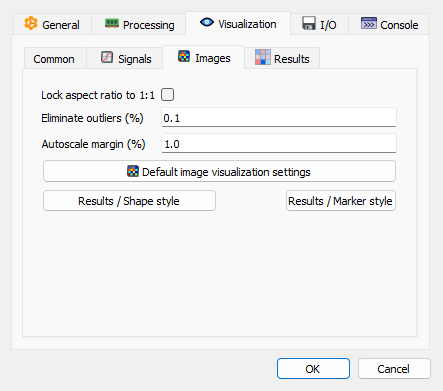
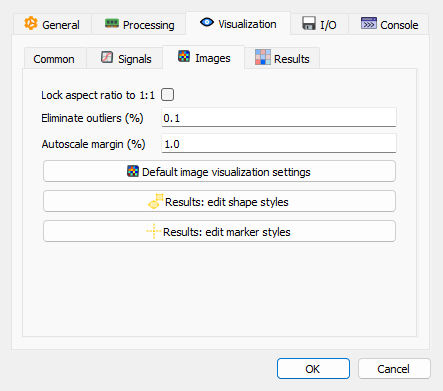
Update settings documentation and French translations for visualization options

Changed region(s): [[0.088, 0.491, 0.8804, 0.6138]]

diff --git a/doc/features/common/settings.rst b/doc/features/common/settings.rst
@@ -190,7 +190,7 @@ The Signals sub-tab contains settings specific to signal visualizations:
     Format string for datetime X-axis labels when using sub-second time units (ms, μs, ns).
     Uses Python's strftime format codes (e.g., %H:%M:%S.%f for hours:minutes:seconds.microseconds).
 
-**Results / Shape style**
+**Results: edit shape styles**
     Click this button to configure the visual style for annotation shapes
     (rectangles, circles, segments, etc.) displayed on signal plots. This includes:
 
@@ -201,7 +201,7 @@ The Signals sub-tab contains settings specific to signal visualizations:
     These settings apply to all result shapes drawn on signal plots (e.g., peak markers,
     FWHM indicators, feature detection results).
 
-**Results / Marker style**
+**Results: edit marker styles**
     Click this button to configure the visual style for cursor markers on
     signal plots. This includes:
 
@@ -238,13 +238,13 @@ The Images sub-tab contains settings specific to image visualizations:
     Click this button to configure default visualization settings for images (colormap,
     interpolation, contrast, etc.).
 
-**Results / Shape style**
+**Results: edit shape styles**
     Click this button to configure the visual style for annotation shapes
     displayed on image plots. Parameters are similar to signal shapes but optimized
     for image visualization (e.g., different colors for better visibility
     on images).
 
-**Results / Marker style**
+**Results: edit marker styles**
     Click this button to configure the visual style for cursor markers on
     image plots.
 
